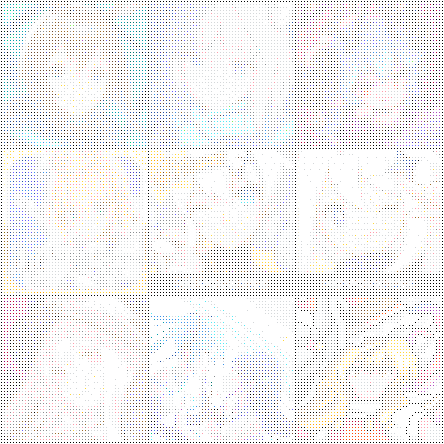
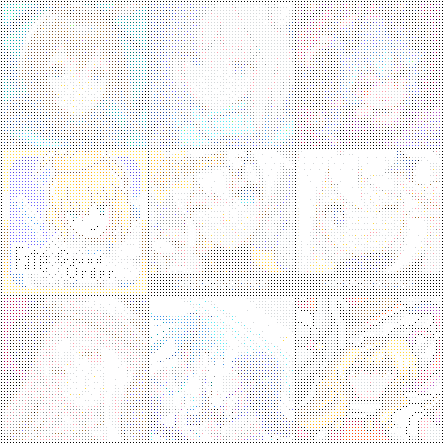
changes

diff --git a/userscript.user.js b/userscript.user.js
@@ -19,9 +19,9 @@ if (window.top !== window.self) {
     window.addEventListener('load', () => {
         // Load the image
         const image = document.createElement("img");
-        image.src = "https://raw.githubusercontent.com/FelixLeander/GrandGachaAllicane/main/overlay/grid48.png";
+        image.src = "https://raw.githubusercontent.com/FelixLeander/GrandGachaAllicane/main/overlay/overlayGrand.png";
         image.onload = () => {
-            image.style = `position: absolute; top: 0; right: 0; width: ${image.width/3}px; height: ${image.height/3}px; image-rendering: pixelated; z-index: 1`;
+            image.style = `position: absolute; right: 0; top: 0; width: ${image.width/3}px; height: ${image.height/3}px; image-rendering: pixelated; z-index: 1`;
         };
 
         // Add the image as overlay

diff --git a/index.html b/index.html
@@ -8,14 +8,6 @@
   </head>
 
   <body>
-    <div>
-      <h1 class="centerStart">UNITED PLACE GACHA ALLIANCE</h1>
-      <br/>
-    </div>
-
-    <div class="gradientBoarder">
-      <h1><a href="https://discord.gg/GGAgHD6C"></a>JOIN THE DISCORD HERE</h1>
-    </div>
-
+    <img class="props" src="https://raw.githubusercontent.com/FelixLeander/GrandGachaAllicane/main/overlay/grid48.png" alt="sss">
   </body>
 </html>

diff --git a/CSSs/main.css b/CSSs/main.css
@@ -14,6 +14,15 @@ padding: 5px;
   margin-right: auto;
 }
 
+.props {
+  position: fixed;
+  right: 1423px;
+  top: 428px;
+  width: 480px;
+  height: 480px;
+  image-rendering: pixelated;
+}
+
 h1 {
   font-size: 45px;
 }
